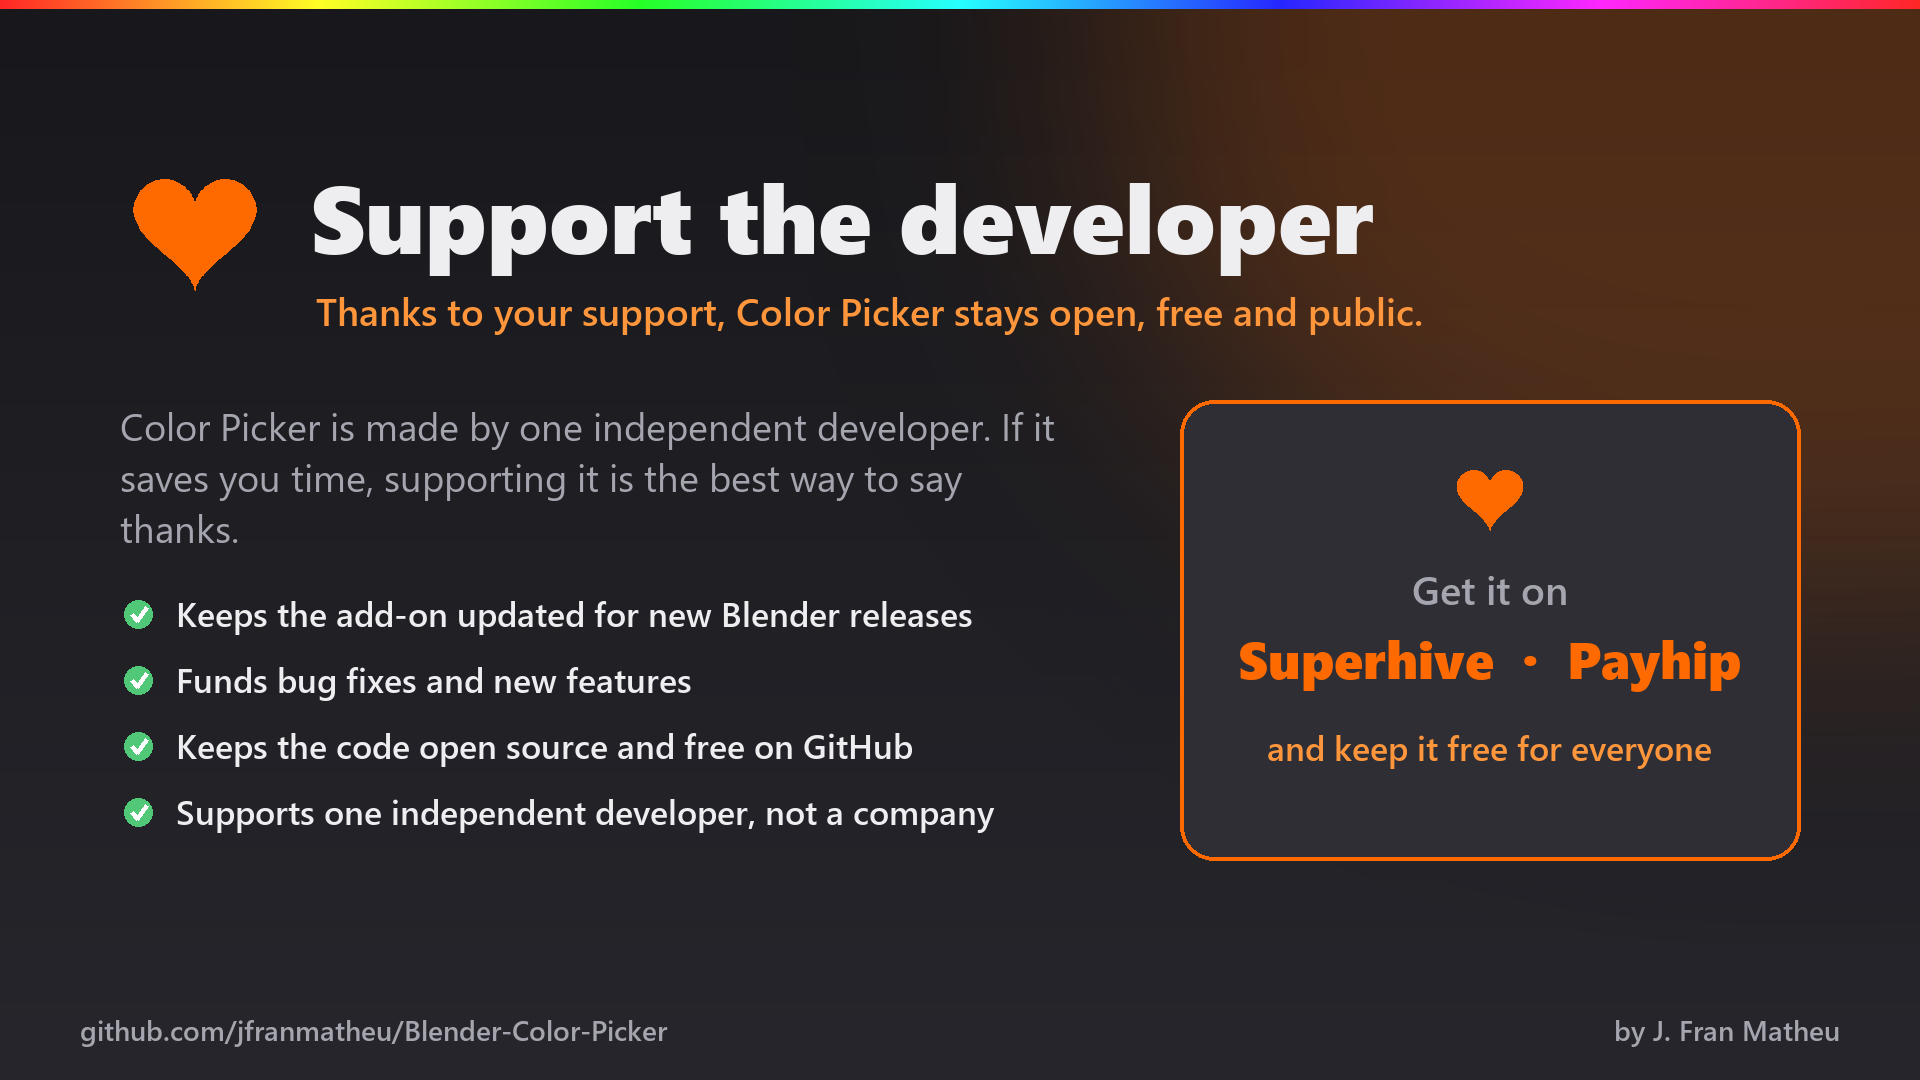
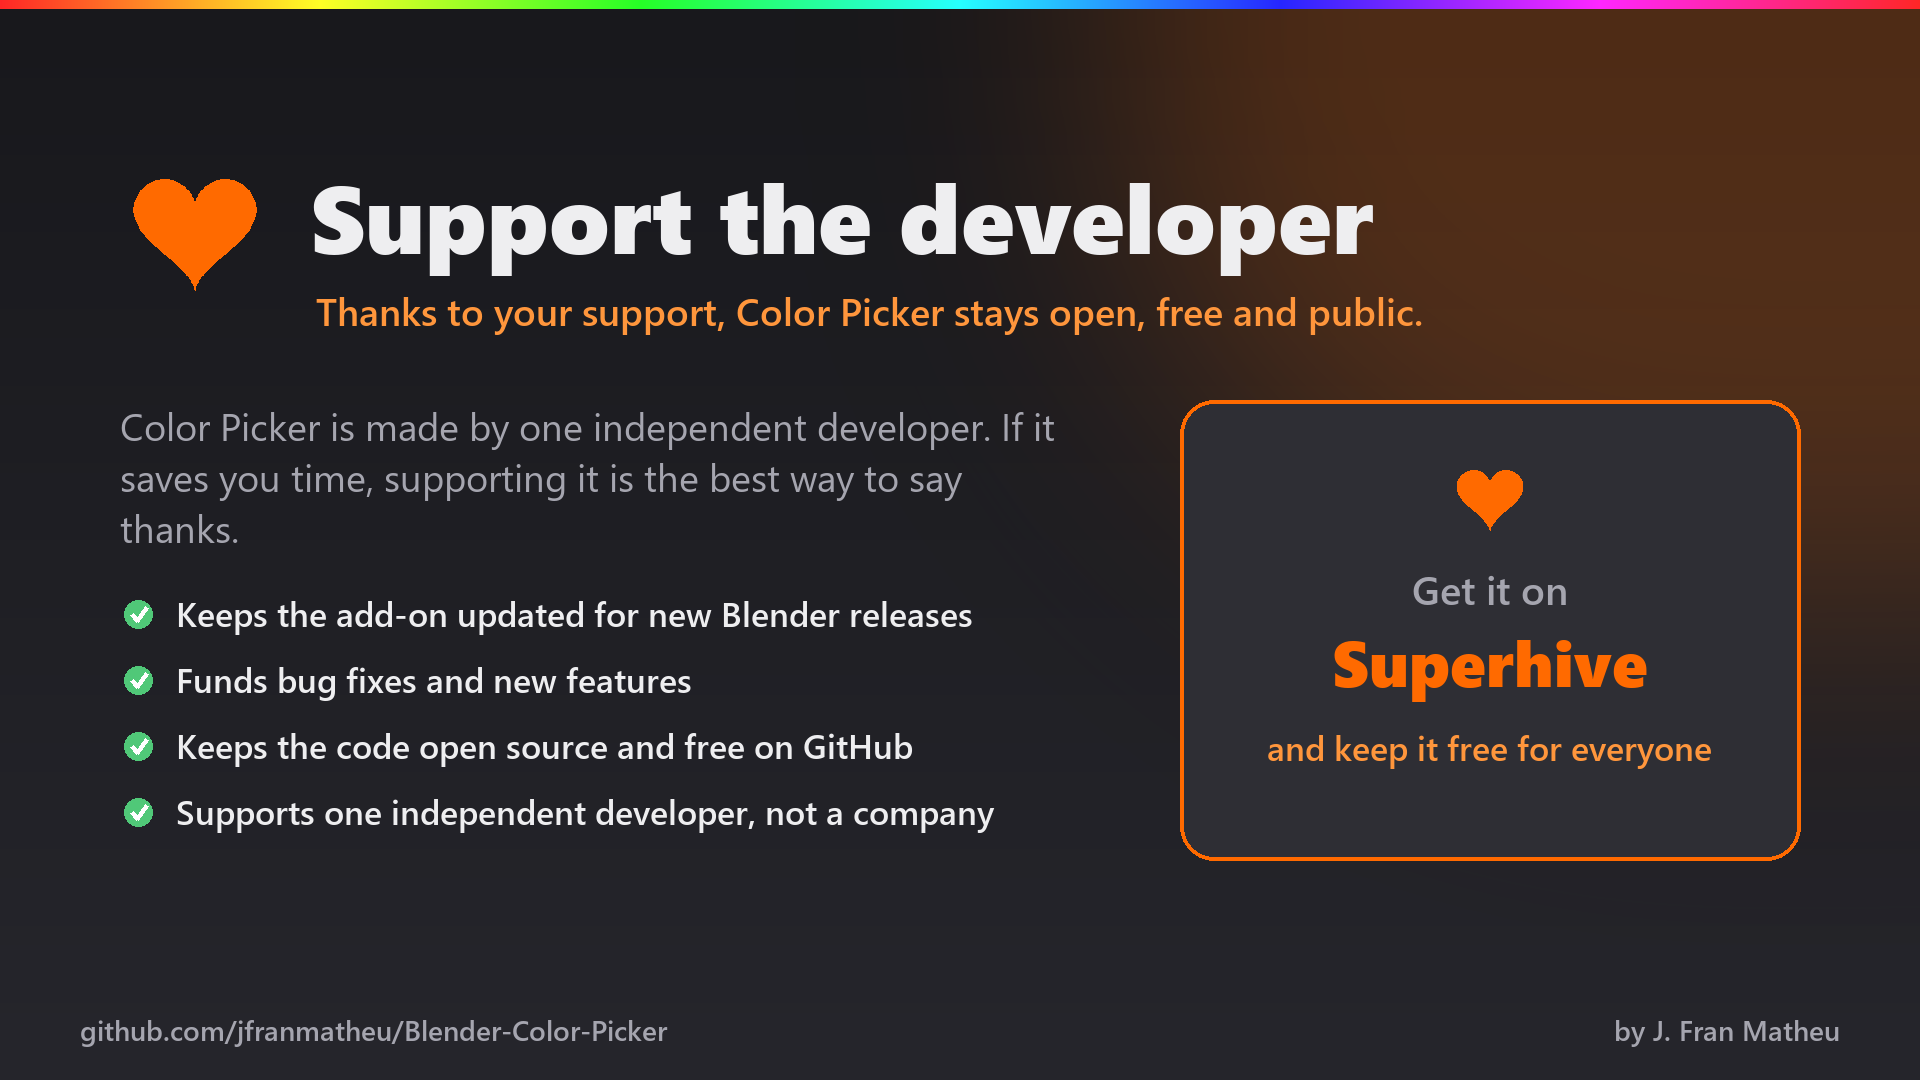
Remove Payhip references; Superhive is the only store

Changed region(s): [[0.625, 0.5806, 0.9062, 0.6417]]

diff --git a/store/superhive/docs.html b/store/superhive/docs.html
@@ -48,7 +48,7 @@
 <p>Builds for Blender 2.93, 3.x and 4.x are in the <a href="https://github.com/jfranmatheu/Blender-Color-Picker/tree/main/releases"><code>releases</code></a> folder. They don't receive updates.</p>
 <h2 id="installation">Installation</h2>
 <ol>
-<li>Download the zip from the <a href="https://github.com/jfranmatheu/Blender-Color-Picker/releases/latest">latest release</a>, or from your <a href="https://superhivemarket.com/products/color-picker">Superhive</a> or <a href="https://payhip.com/b/gZ6F4">Payhip</a> purchase. It's the same add-on everywhere.</li>
+<li>Download the zip from the <a href="https://github.com/jfranmatheu/Blender-Color-Picker/releases/latest">latest release</a>, or from your <a href="https://superhivemarket.com/products/color-picker">Superhive</a> purchase. It's the same add-on everywhere.</li>
 <li>In Blender, go to <em>Edit &gt; Preferences &gt; Get Extensions</em>.</li>
 <li>Open the menu in the top-right corner, choose <em>Install from Disk…</em> and select the zip. You can also drag and drop the zip into Blender.</li>
 </ol>
@@ -200,5 +200,5 @@
 <ul>
 <li><strong>Questions and troubleshooting:</strong> see the <a href="https://github.com/jfranmatheu/Blender-Color-Picker/blob/main/FAQ.md">FAQ</a>.</li>
 <li><strong>Bugs:</strong> open an issue on <a href="https://github.com/jfranmatheu/Blender-Color-Picker/issues">GitHub</a>. Include your Blender version, your operating system, the paint mode, and any error from Blender's system console.</li>
-<li><strong>Support development:</strong> Color Picker is free and open source. If it saves you time, you can support it on <a href="https://superhivemarket.com/products/color-picker">Superhive</a> or <a href="https://payhip.com/b/gZ6F4">Payhip</a>. Thank you! ♥</li>
+<li><strong>Support development:</strong> Color Picker is free and open source. If it saves you time, you can support it on <a href="https://superhivemarket.com/products/color-picker">Superhive</a>. Thank you! ♥</li>
 </ul>

diff --git a/store/tools/build.py b/store/tools/build.py
@@ -1,4 +1,4 @@
-"""Build the installable Color Picker zip for the stores (Superhive, Payhip).
+"""Build the installable Color Picker zip for Superhive.
 
 Uses Blender's own extension builder, so the zip is exactly what Blender
 expects to install. Output goes to store/build/, which git ignores.

diff --git a/README.md b/README.md
@@ -75,9 +75,9 @@ The settings are in the 3D Viewport sidebar (`N`), under *Paint > Color Picker*,
 
 <div align="center">
 
-### Thanks to your support, Color Picker stays **open, free and public**.<br>If it saves you time, please consider getting it on Superhive or Payhip: every purchase directly funds its development and future Blender updates.
+### Thanks to your support, Color Picker stays **open, free and public**.<br>If it saves you time, please consider getting it on Superhive: every purchase directly funds its development and future Blender updates.
 
-<a href="https://superhivemarket.com/products/color-picker"><img src="https://img.shields.io/badge/Get%20it%20on-Superhive-ff6a00?style=for-the-badge&logo=blender&logoColor=white" alt="Get Color Picker on Superhive" width="360"></a>&nbsp;&nbsp;<a href="https://payhip.com/b/gZ6F4"><img src="https://img.shields.io/badge/Get%20it%20on-Payhip-5c6ac4?style=for-the-badge&logoColor=white" alt="Get Color Picker on Payhip" width="300"></a>
+<a href="https://superhivemarket.com/products/color-picker"><img src="https://img.shields.io/badge/Get%20it%20on-Superhive-ff6a00?style=for-the-badge&logo=blender&logoColor=white" alt="Get Color Picker on Superhive" width="360"></a>
 
 </div>
 
@@ -85,7 +85,7 @@ The settings are in the 3D Viewport sidebar (`N`), under *Paint > Color Picker*,
 
 The complete reference, including recent colors, hotkeys and how the picker is sized, is in the [documentation](DOCS.md).
 
-Questions about installing, hotkeys, compatibility or why it's sold on Superhive and Payhip? See the [FAQ](FAQ.md).
+Questions about installing, hotkeys, compatibility or why it's sold on Superhive? See the [FAQ](FAQ.md).
 
 ## License
 

diff --git a/DOCS.md b/DOCS.md
@@ -35,7 +35,7 @@ Builds for Blender 2.93, 3.x and 4.x are in the [`releases`](releases) folder. T
 
 ## Installation
 
-1. Download the zip from the [latest release](https://github.com/jfranmatheu/Blender-Color-Picker/releases/latest), or from your [Superhive](https://superhivemarket.com/products/color-picker) or [Payhip](https://payhip.com/b/gZ6F4) purchase. It's the same add-on everywhere.
+1. Download the zip from the [latest release](https://github.com/jfranmatheu/Blender-Color-Picker/releases/latest), or from your [Superhive](https://superhivemarket.com/products/color-picker) purchase. It's the same add-on everywhere.
 2. In Blender, go to *Edit > Preferences > Get Extensions*.
 3. Open the menu in the top-right corner, choose *Install from Disk…* and select the zip. You can also drag and drop the zip into Blender.
 
@@ -179,4 +179,4 @@ The zip is written to the `dist` folder.
 
 - **Questions and troubleshooting:** see the [FAQ](FAQ.md).
 - **Bugs:** open an issue on [GitHub](https://github.com/jfranmatheu/Blender-Color-Picker/issues). Include your Blender version, your operating system, the paint mode, and any error from Blender's system console.
-- **Support development:** Color Picker is free and open source. If it saves you time, you can support it on [Superhive](https://superhivemarket.com/products/color-picker) or [Payhip](https://payhip.com/b/gZ6F4). Thank you! ♥
+- **Support development:** Color Picker is free and open source. If it saves you time, you can support it on [Superhive](https://superhivemarket.com/products/color-picker). Thank you! ♥

diff --git a/FAQ.md b/FAQ.md
@@ -6,12 +6,11 @@
 
 Yes. Color Picker is free and open source under the GPL-3.0 license, the same family of license as Blender. You can download it from the [latest GitHub release](https://github.com/jfranmatheu/Blender-Color-Picker/releases/latest), use it in personal and commercial work, study the code and share it.
 
-### Then why is it sold on Superhive and Payhip?
+### Then why is it sold on Superhive?
 
 Buying it is how you support its development. Color Picker is made by one independent developer, and every new Blender version can break add-ons. Purchases pay for updates, bug fixes and new features, and keep the add-on free for everyone, including students, hobbyists and artists who can't pay for tools right now.
 
-- [Get it on Superhive](https://superhivemarket.com/products/color-picker)
-- [Get it on Payhip](https://payhip.com/b/gZ6F4)
+[Get it on Superhive](https://superhivemarket.com/products/color-picker)
 
 ### Is the store version different from the GitHub version?
 
